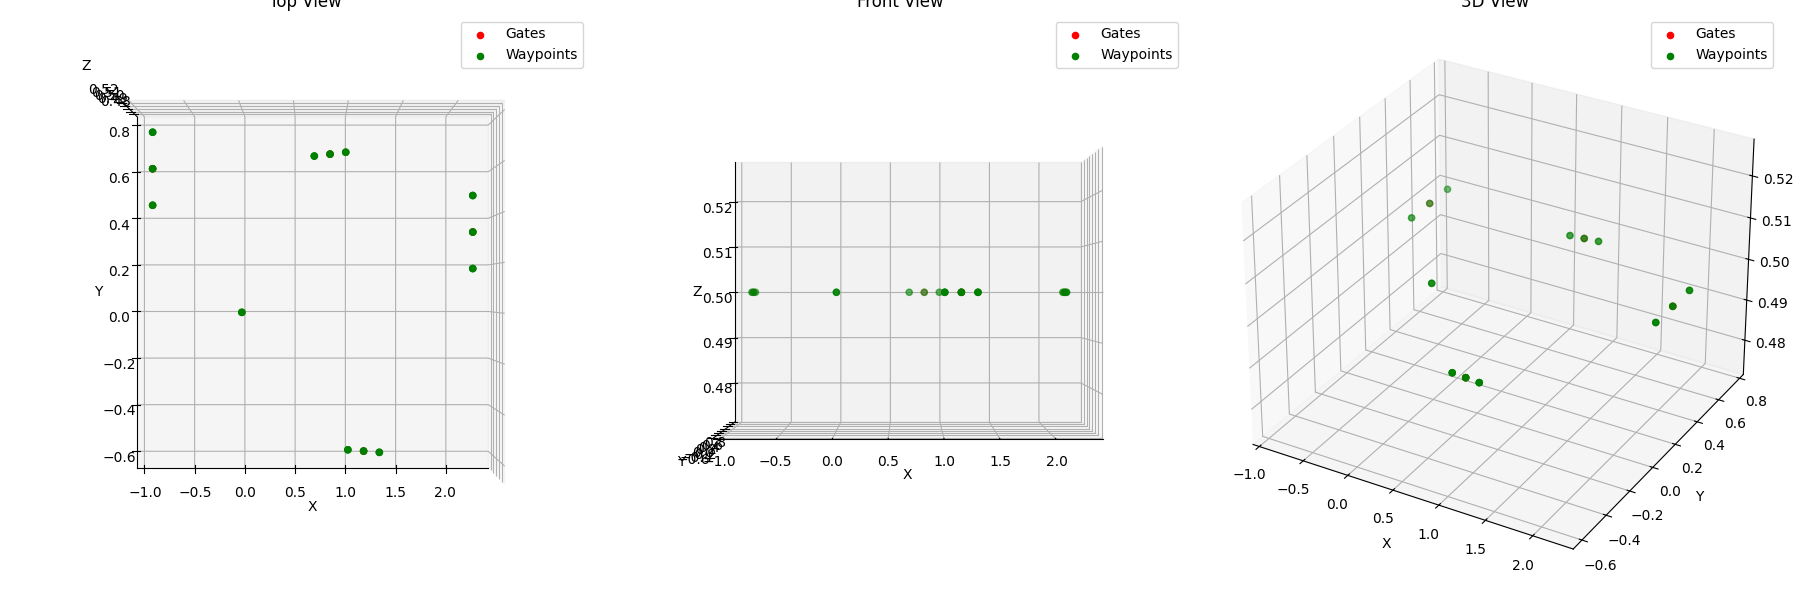
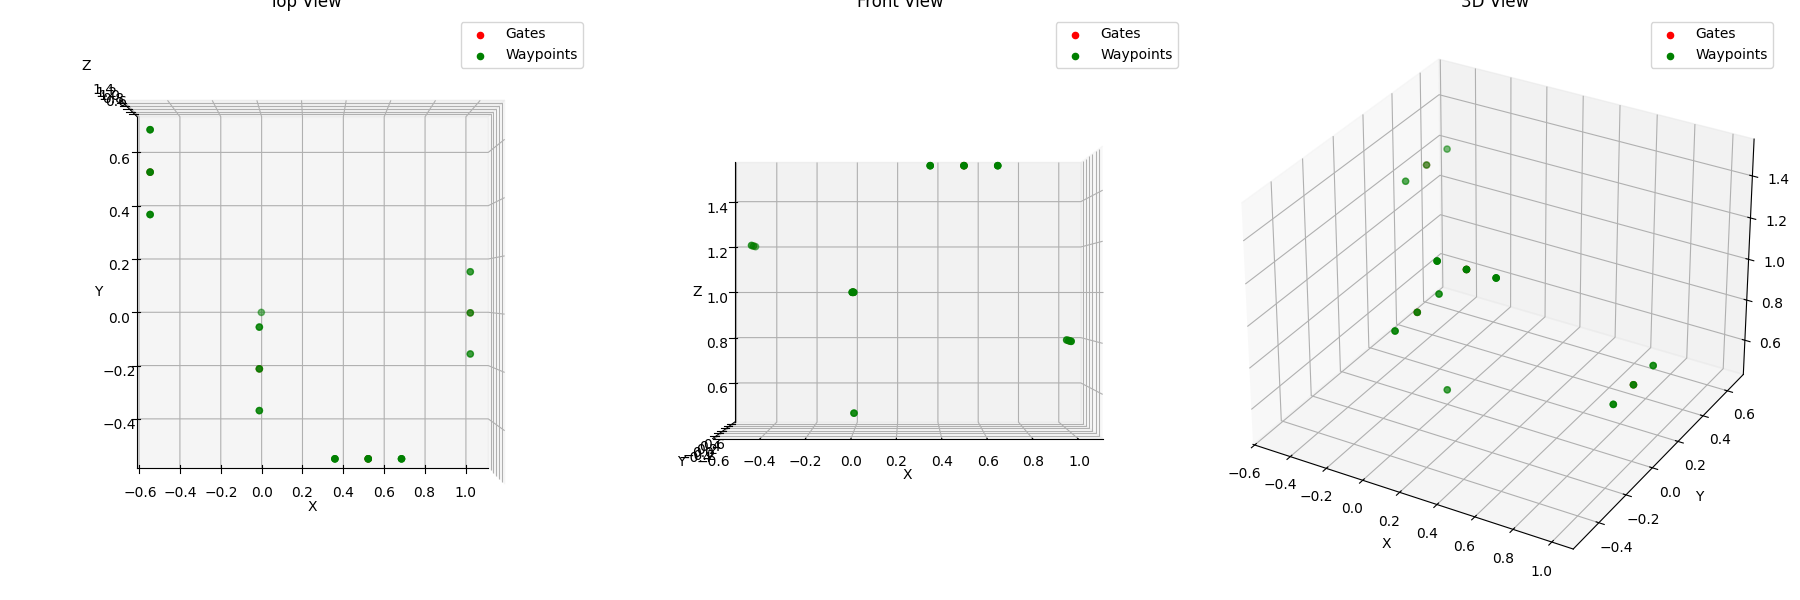
merged branch motion_planer into master

diff --git a/main.py b/main.py
@@ -27,11 +27,18 @@ import numpy as np
 import time
 import matplotlib.pyplot as plt
 import matplotlib
+import os
+import pandas as pd
+from csv_to_waypoints_fct import csv_to_waypoints
 
 
 # Global variables
 URI = uri_helper.uri_from_env(default='radio://0/90/2M/E7E7E7E709')
 logging.basicConfig(level=logging.ERROR) # Only output errors from the logging framework
+
+# csv file path
+current_dir = os.path.dirname(__file__)
+csv_file_path = os.path.join(current_dir, "csv_files", "gates_info.csv")
 
 STATE = {
     "TAKE_OFF": 0,
@@ -42,10 +49,13 @@ GATE_THRESHOLD = 0.05                           # Threshold for the position che
 DT = 0.0001                                       # Time step for the main loop, in seconds
 LANDING_COORD = [0, 0, 0, 0]                    # Landing position of the drone, in [m, m, m, rad]
 TAKE_OFF_COORD = [0, 0, 0.5, 0]                 # Take off position of the drone, in [m, m, m, rad]
-GATES = [[1.16, -0.57, 0.50, np.deg2rad(-2)],   # [x, y, z, yaw] of each true gate, in [m, m, m, rad]
-         [2.20, 0.33, 0.50, np.deg2rad(90)],
-         [0.84, 0.65, 0.50, np.deg2rad(-177)],
-         [-0.85, 0.59, 0.50, np.deg2rad(-90)]]
+# GATES = [[1.16, -0.57, 0.50, np.deg2rad(-2)],   # [x, y, z, yaw] of each true gate, in [m, m, m, rad]
+#          [2.20, 0.33, 0.50, np.deg2rad(90)],
+#          [0.84, 0.65, 0.50, np.deg2rad(-177)],
+#          [-0.85, 0.59, 0.50, np.deg2rad(-90)]]
+SIMPLE_GATES, GATES = csv_to_waypoints(csv_file_path) # Load the gates from the CSV file
+print(SIMPLE_GATES)
+print(GATES)
 OFFSET_GATE = 0.15                              # Offset to the leading and trailing gate, in meters
 RACING_VELOCITY = 1.6                           # Velocity goal during the racing, in m/s
 

diff --git a/csv_to_waypoints_fct.py b/csv_to_waypoints_fct.py
@@ -52,7 +52,7 @@ def csv_to_waypoints(csv_file_path):
         x = float(w['x'])
         y = float(w['y'])
         z = float(w['z'])
-        theta = float(w['theta'])
+        theta = float(w['theta']) - np.pi/2  # to have the same orientation as the motion planner
         size = float(w['size'])
         
         # Corners coordinates
